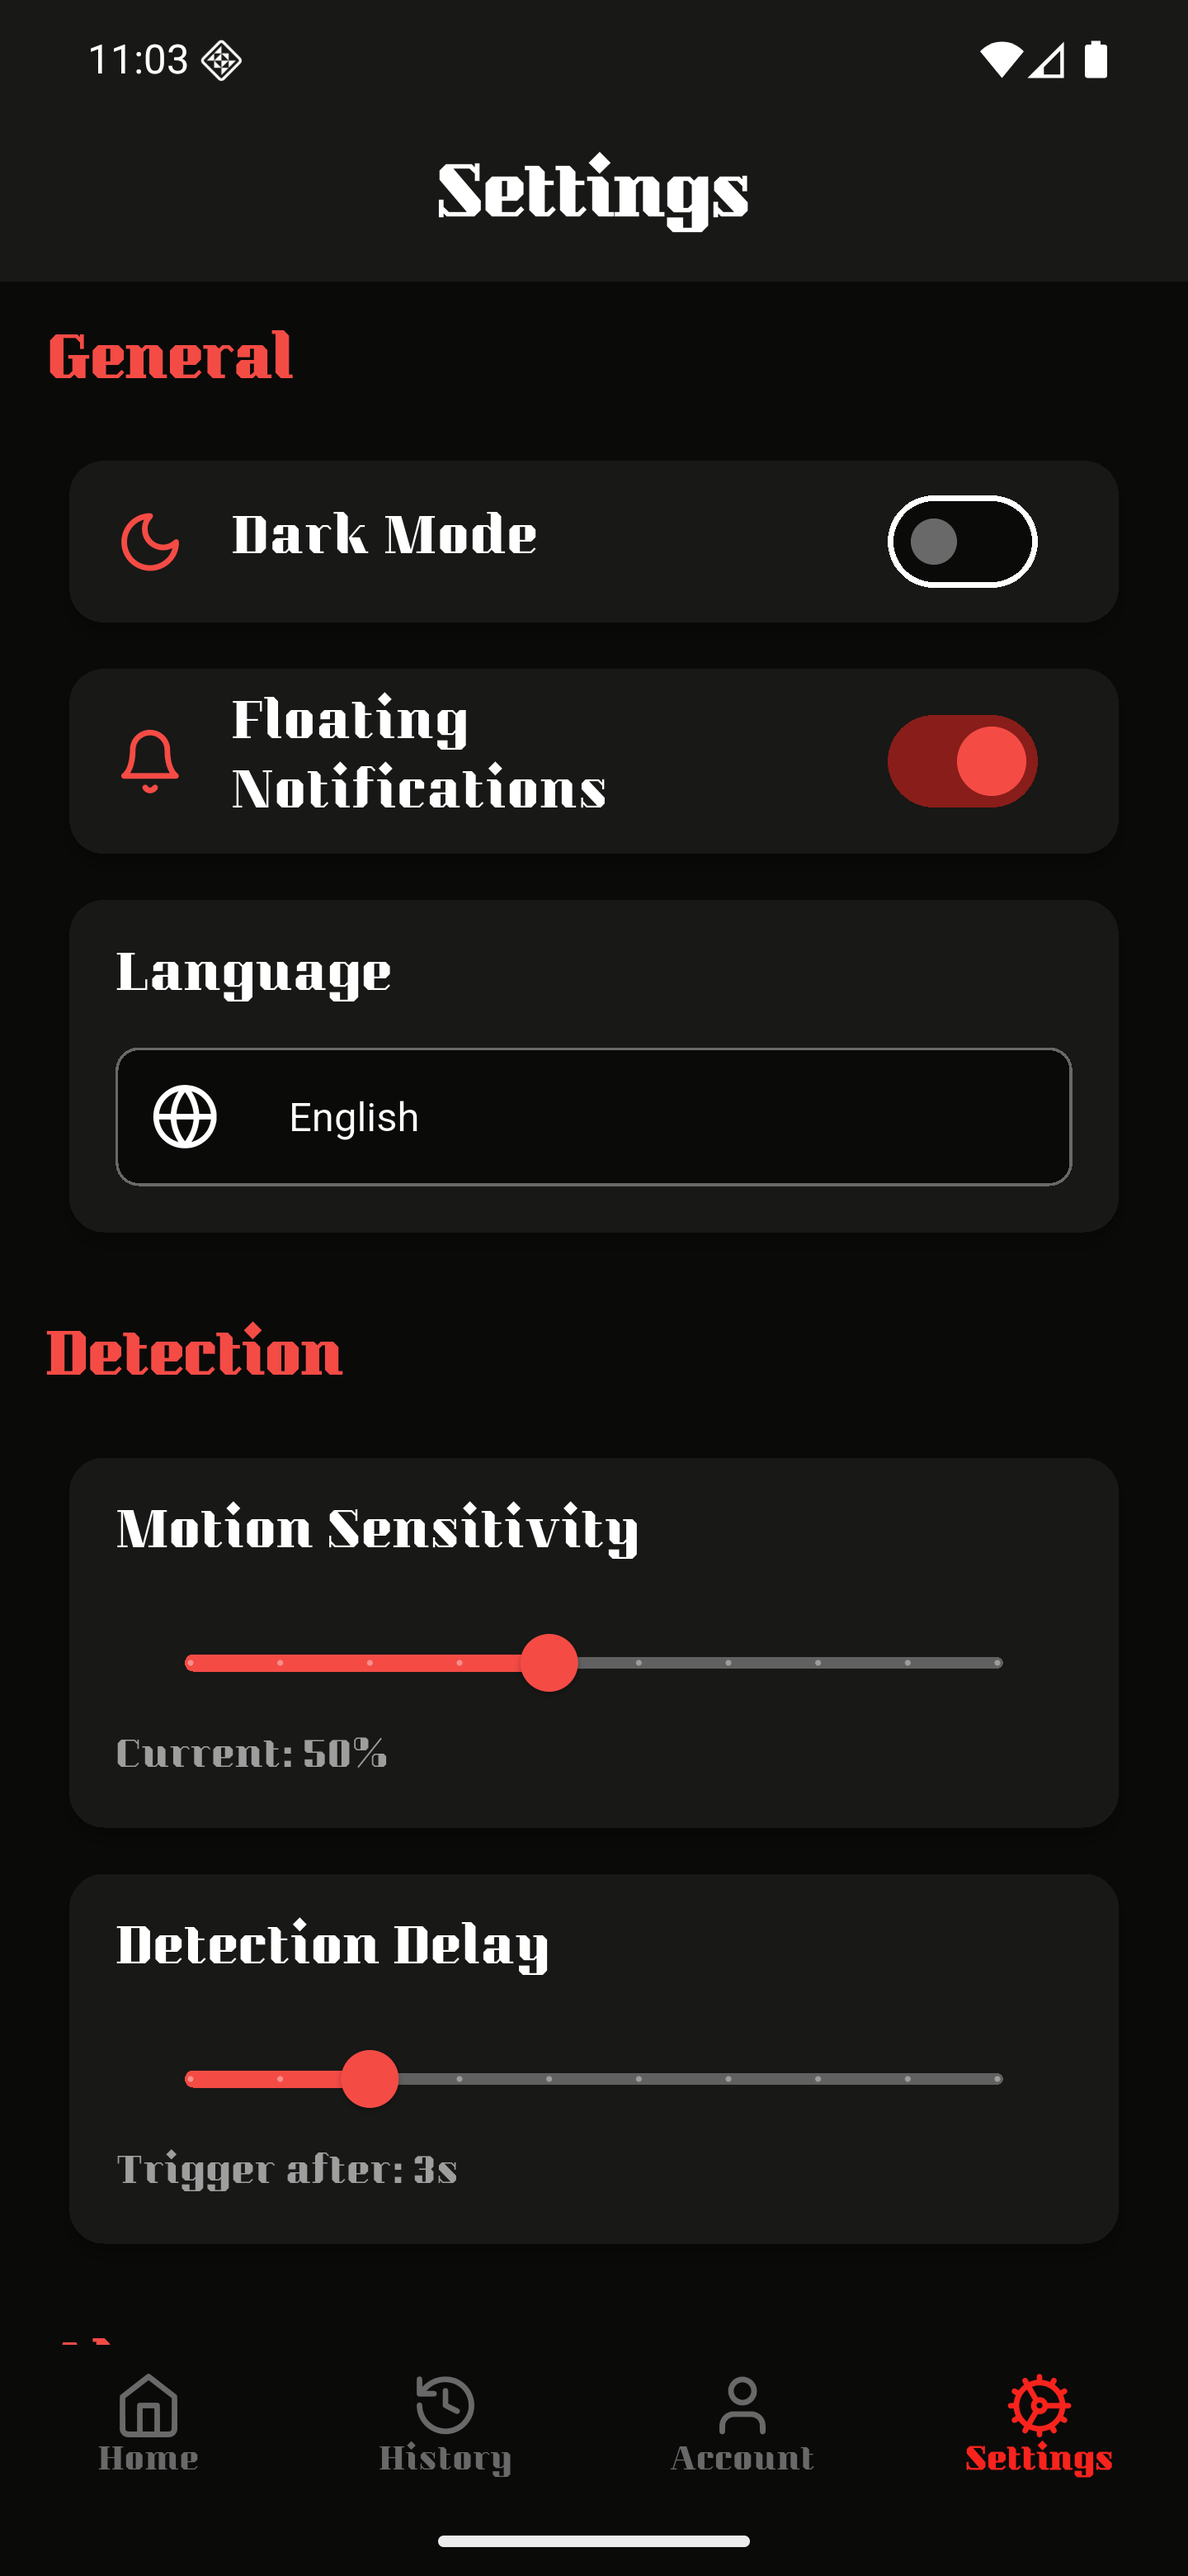
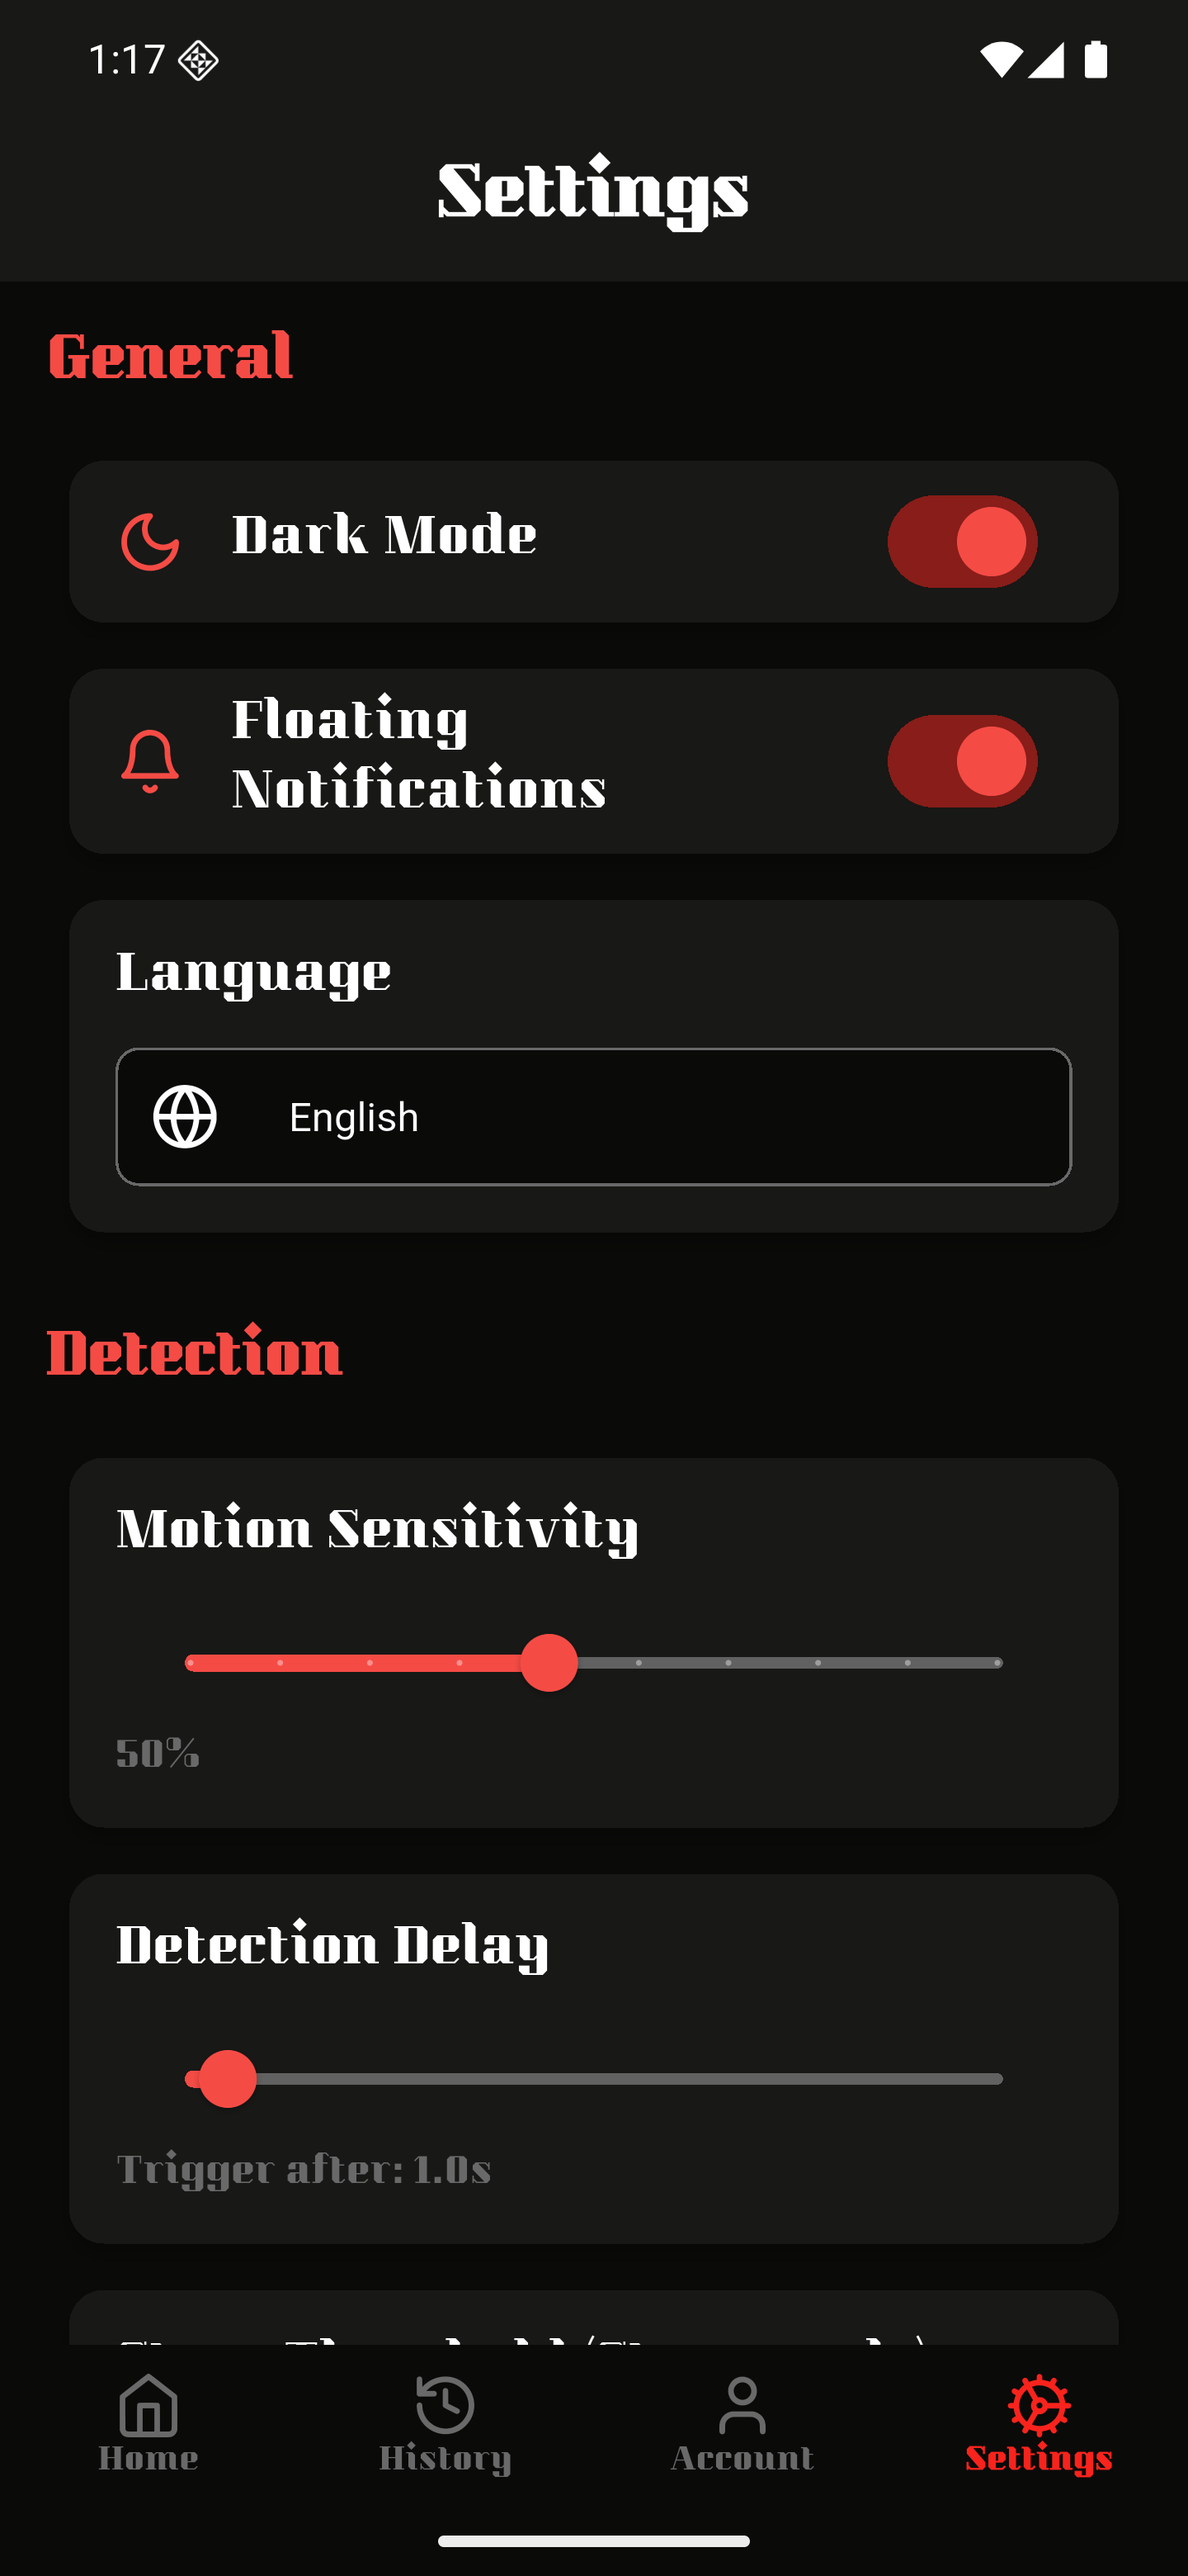
fix: dark theme CardThemeData.color matched the page background
Was AppColors.darkBg (same as scaffoldBackgroundColor), so any Card
relying on the theme default instead of an explicit override rendered
invisible - exactly what the new LabeledSliderSection cards started
doing after the theming sweep. Caught by actually looking at the
Settings screen on the emulator, not just flutter analyze. Now
AppColors.darkBgLight, matching the light theme's already-correct
lightBgLight.

diff --git a/lib/styles/style.dart b/lib/styles/style.dart
@@ -165,7 +165,7 @@ final ThemeData primaryTheme = ThemeData(
   ),
 
   cardTheme: CardThemeData(
-    color: AppColors.darkBg,
+    color: AppColors.darkBgLight,
     elevation: 4,
     shape: RoundedRectangleBorder(borderRadius: BorderRadius.circular(12)),
     margin: const EdgeInsets.all(8),
